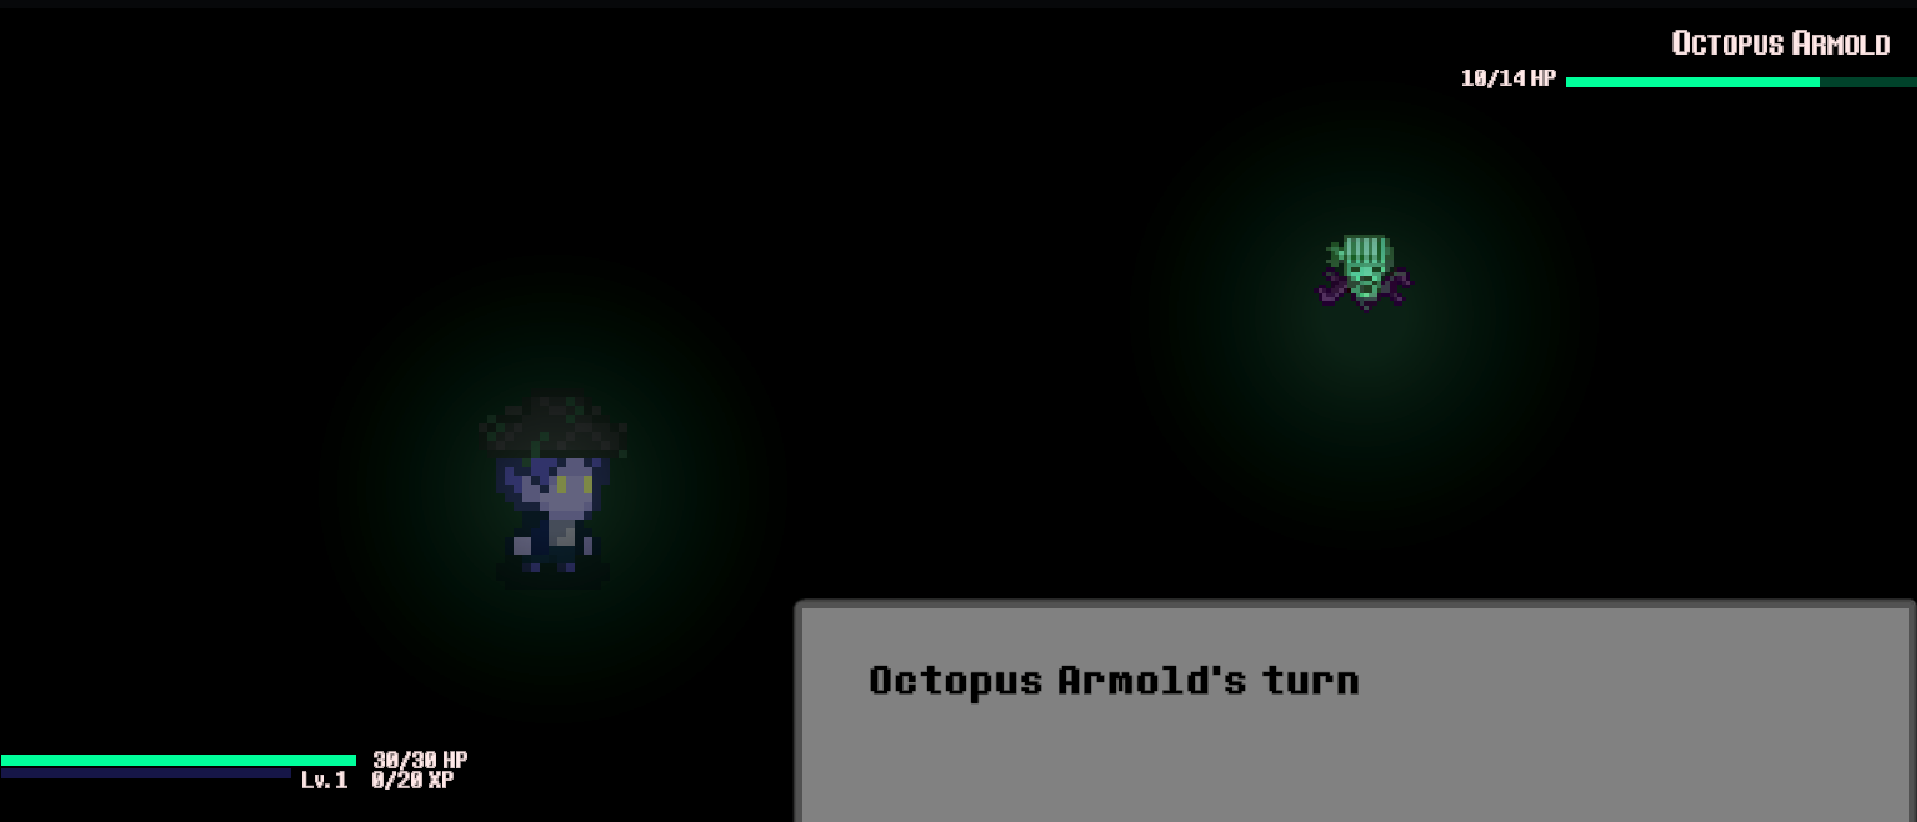
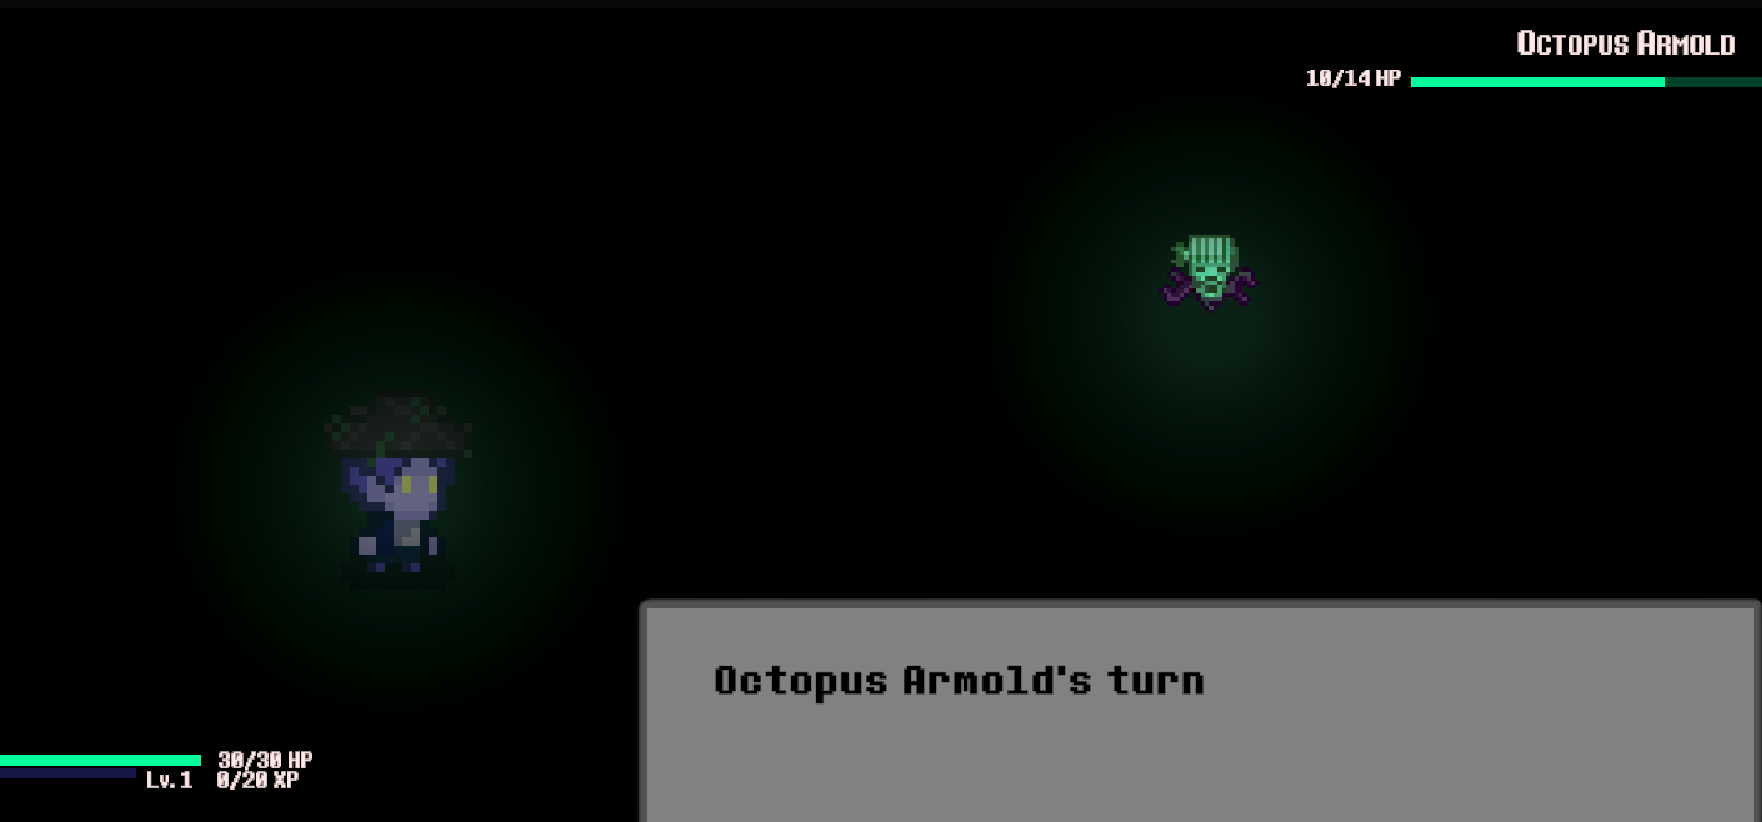
polished website and set up mobile layouts

diff --git a/src/app/page.tsx b/src/app/page.tsx
@@ -18,9 +18,9 @@ const files: FileItem[] = [
   {
     name: "about.txt",
     description:
-      "saif alshawaf\n\nsoftware engineering student focused on frontend development, game systems, interactive experiences, and digital aesthetics.\n\ni like to build things\nsee what i've been up to...",
+      "saif alshawaf\n\nsoftware engineering student focused on frontend development, game systems, interactive experiences, and digital aesthetics.\n\ni like to build things\ntake a look at what i've been up to",
     icon: "/icons/note.png",
-    position: "absolute left-100 top-100",
+   position: "lg:absolute lg:left-340 lg:top-100",
   },
   {
     name: "kittyxcarson.url",
@@ -40,63 +40,94 @@ const files: FileItem[] = [
     name: "soulseek.exe",
     description: "turn based combat pirate game",
     icon: "/icons/folder.png",
+    stack: ["unity", "c#", "piskel"],
     notes: [
       "explore islands, encounter wandering souls, and build a crew through combat and capture systems",
       "procedural/random encounter zones",
       "custom dialogue and battle UI systems",
-      "scene transition and island reveal effects"
+      "scene transition and island reveal effects",
     ],
-    screenshots: ["/media/soul-seek-preview-1.png", "/media/soul-seek-preview-2.png"],
+    screenshots: [
+      "/media/soul-seek-preview-1.png",
+      "/media/soul-seek-preview-2.png",
+      "/media/soul-seek-preview-3.png",
+    ],
   },
   {
     name: "healthcare.apk",
-    description: "react native healthcare interface built through western developer society",
+    description:
+      "react native healthcare interface built through western developer society",
     icon: "/icons/folder.png",
-     notes: [
+    stack: ["react native", "typescript", "expo", "nativewind"],
+    notes: [
       "implemented bottom navigation architecture",
       "designed calendar and tag-based information views",
       "worked with react navigation and nativewind",
-      "contributed to patient and doctor dashboard flows"
+      "contributed to patient and doctor dashboard flows",
     ],
-     screenshots: ["/media/healthcare-preview-1.png", "/media/healthcare-preview-2.png"],
+    screenshots: ["/media/healthcare-preview-1.png", "/media/healthcare-preview-2.png"],
   },
 ];
 
 export default function Home() {
   const [booting, setBooting] = useState(true);
   const [activeFile, setActiveFile] = useState<FileItem | null>(null);
-  const [openImages, setOpenImages] = useState< { src: string; top: number; left: number }[] >([]);
+  const [openImages, setOpenImages] = useState<
+    { src: string; top: number; left: number }[]
+  >([]);
+  const [windowPosition, setWindowPosition] = useState({
+    top: 120,
+    left: 400,
+  });
+
+  function mobile() {
+    if (typeof window === "undefined") return false;
+    return window.innerWidth < 900;
+  }
+
+  function finishBoot() {
+    const aboutFile = files.find((file) => file.name === "about.txt") ?? null;
+    const isMobile = mobile();
+
+    setWindowPosition({
+      top: isMobile ? 20 : 120,
+      left: isMobile ? 16 : 420,
+    });
+
+    setBooting(false);
+    setActiveFile(aboutFile);
+    setOpenImages([]);
+  }
 
   useEffect(() => {
-    const timer = setTimeout(() => {
-      setBooting(false);
-
-      const aboutFile = files.find((file) => file.name === "about.txt") ?? null;
-      setActiveFile(aboutFile);
-      setOpenImages([]);
+    const timer = window.setTimeout(() => {
+      finishBoot();
     }, 3200);
 
-    return () => clearTimeout(timer);
+    return () => window.clearTimeout(timer);
   }, []);
 
   function openFile(file: FileItem) {
+    const isMobile = mobile();
+
+    setWindowPosition({
+      top: isMobile ? 100 : Math.random() * 200 + 80,
+      left: isMobile ? 16 : Math.random() * 500 + 200,
+    });
+
     setActiveFile(file);
+
     setOpenImages(
-    (file.screenshots ?? []).map((src) => ({
-      src,
-      top: Math.random() * 300 + 80,
-      left: Math.random() * 500 + 80,
-    }))
-  );
-
-
-
-
+      (file.screenshots ?? []).map((src, index) => ({
+        src,
+        top: isMobile ? 140 + index * 24 : Math.random() * 300 + 80,
+        left: isMobile ? 16 : Math.random() * 500 + 80,
+      }))
+    );
   }
 
   function closeMainWindow() {
     setActiveFile(null);
-    setOpenImages([]);
   }
 
   if (booting) {
@@ -113,12 +144,12 @@ export default function Home() {
   }
 
   return (
-    <main className="relative w-screen h-screen bg-black text-white overflow-hidden p-6 font-[family-name:var(--font-geist-mono)]">
+    <main className="relative w-screen min-h-screen overflow-x-hidden bg-black text-white overflow-hidden p-6 font-[family-name:var(--font-geist-mono)]">
       {/* texture */}
       <div className="absolute inset-0 pointer-events-none opacity-[0.00] bg-[url('/noise.png')]" />
 
       {/* desktop */}
-      <div className="relative z-10 flex flex-col gap-8 w-fit">
+      <div className="relative z-10 flex flex-wrap gap-8 w-fit lg:flex-col">
         {files.map((file) => (
           <button
             key={file.name}
@@ -131,16 +162,26 @@ export default function Home() {
               className={`${file.iconSize ?? "w-10 h-10"} mb-1 object-contain pixelated`}
             />
 
-            <div className="text-xs text-center leading-tight">
-              {file.name}
-            </div>
+            <div className="text-xs text-center leading-tight">{file.name}</div>
           </button>
         ))}
       </div>
 
       {/* main artifact window */}
       {activeFile && (
-        <div className="absolute z-20 top-24 left-1/2 -translate-x-1/2 w-[600px] border border-white/30 bg-black/90 backdrop-blur-[1px]">
+        <div
+          className={`${
+            mobile() ? "relative -mt-[75px]" : "absolute"
+          } z-20 w-[92vw] max-w-[420px] md:w-[600px] border border-white/30 bg-black/90 backdrop-blur-[1px]`}
+          style={
+            mobile()
+              ? {}
+              : {
+                  top: `${windowPosition.top}px`,
+                  left: `${windowPosition.left}px`,
+                }
+          }
+        >
           {/* top bar */}
           <div className="flex items-center justify-between border-b border-white/20 px-3 py-2 text-sm">
             <span>{activeFile.name}</span>
@@ -151,8 +192,8 @@ export default function Home() {
           </div>
 
           {/* content */}
-          <div className="p-4">
-            <p className="text-sm opacity-60 mb-4 whitespace-pre-line">
+          <div className="p-3 landscape:p-2 md:p-4">
+           <p className="text-xs md:text-sm opacity-60 mb-3 landscape:mb-2 whitespace-pre-line">
               {activeFile.description}
             </p>
 
@@ -163,7 +204,7 @@ export default function Home() {
             )}
 
             {activeFile.notes && (
-              <ul className="text-sm opacity-60 space-y-2 mb-4">
+              <ul className="text-xs md:text-sm opacity-60 space-y-1 md:space-y-2 mb-3 landscape:mb-2">
                 {activeFile.notes.map((note) => (
                   <li key={note}>- {note}</li>
                 ))}
@@ -186,36 +227,42 @@ export default function Home() {
 
       {/* screenshot windows */}
       {openImages.map((image, index) => (
-  <div
-    key={`${image.src}-${index}`}
-    className="absolute z-30 w-[420px] border border-white/30 bg-black/90 backdrop-blur-[1px]"
-    style={{
-      top: `${image.top}px`,
-      left: `${image.left}px`,
-    }}
-  >
-    <div className="flex items-center justify-between border-b border-white/20 px-3 py-2 text-sm">
-      <span>{image.src.split("/").pop()}</span>
+        <div
+          key={`${image.src}-${index}`}
+          className={`${
+            mobile() ? "relative mt-3" : "absolute"
+          } z-30 w-[92vw] max-w-[520px] md:w-[420px] border border-white/30 bg-black/90 backdrop-blur-[1px]`}
+          style={
+            mobile()
+              ? {}
+              : {
+                  top: `${image.top}px`,
+                  left: `${image.left}px`,
+                }
+          }
+        >
+          <div className="flex items-center justify-between border-b border-white/20 px-3 py-2 text-sm">
+            <span>{image.src.split("/").pop()}</span>
 
-      <button
-        onClick={() =>
-          setOpenImages((prev) => prev.filter((_, i) => i !== index))
-        }
-        className="hover:opacity-60"
-      >
-        ×
-      </button>
-    </div>
+            <button
+              onClick={() =>
+                setOpenImages((prev) => prev.filter((_, i) => i !== index))
+              }
+              className="hover:opacity-60"
+            >
+              ×
+            </button>
+          </div>
 
-    <div className="p-2">
-      <img
-        src={image.src}
-        alt="project screenshot"
-        className="w-full max-h-[300px] object-contain pixelated"
-      />
-    </div>
-  </div>
-))}
+          <div className="p-2">
+            <img
+              src={image.src}
+              alt="project screenshot"
+              className="w-full max-h-[240px] object-contain pixelated"
+            />
+          </div>
+        </div>
+      ))}
 
       {/* system text */}
       <div className="absolute z-10 bottom-4 right-4 text-xs opacity-30">

diff --git a/next.config.ts b/next.config.ts
@@ -1,7 +1,10 @@
 import type { NextConfig } from "next";
 
 const nextConfig: NextConfig = {
-  /* config options here */
+  
+  allowedDevOrigins: ['10.0.0.108'],
+
+
 };
 
 export default nextConfig;

diff --git a/src/app/layout.tsx b/src/app/layout.tsx
@@ -12,9 +12,8 @@ const geistMono = Geist_Mono({
   subsets: ["latin"],
 });
 
-export const metadata: Metadata = {
-  title: "Create Next App",
-  description: "Generated by create next app",
+export const metadata = {
+  title: "UNSAFE ARCHIVE",
 };
 
 export default function RootLayout({

diff --git a/src/app/globals.css b/src/app/globals.css
@@ -32,3 +32,7 @@ body {
 .pixelated {
   image-rendering: pixelated;
 }
+
+* {
+  cursor: url('/cursor.cur'), auto;
+}